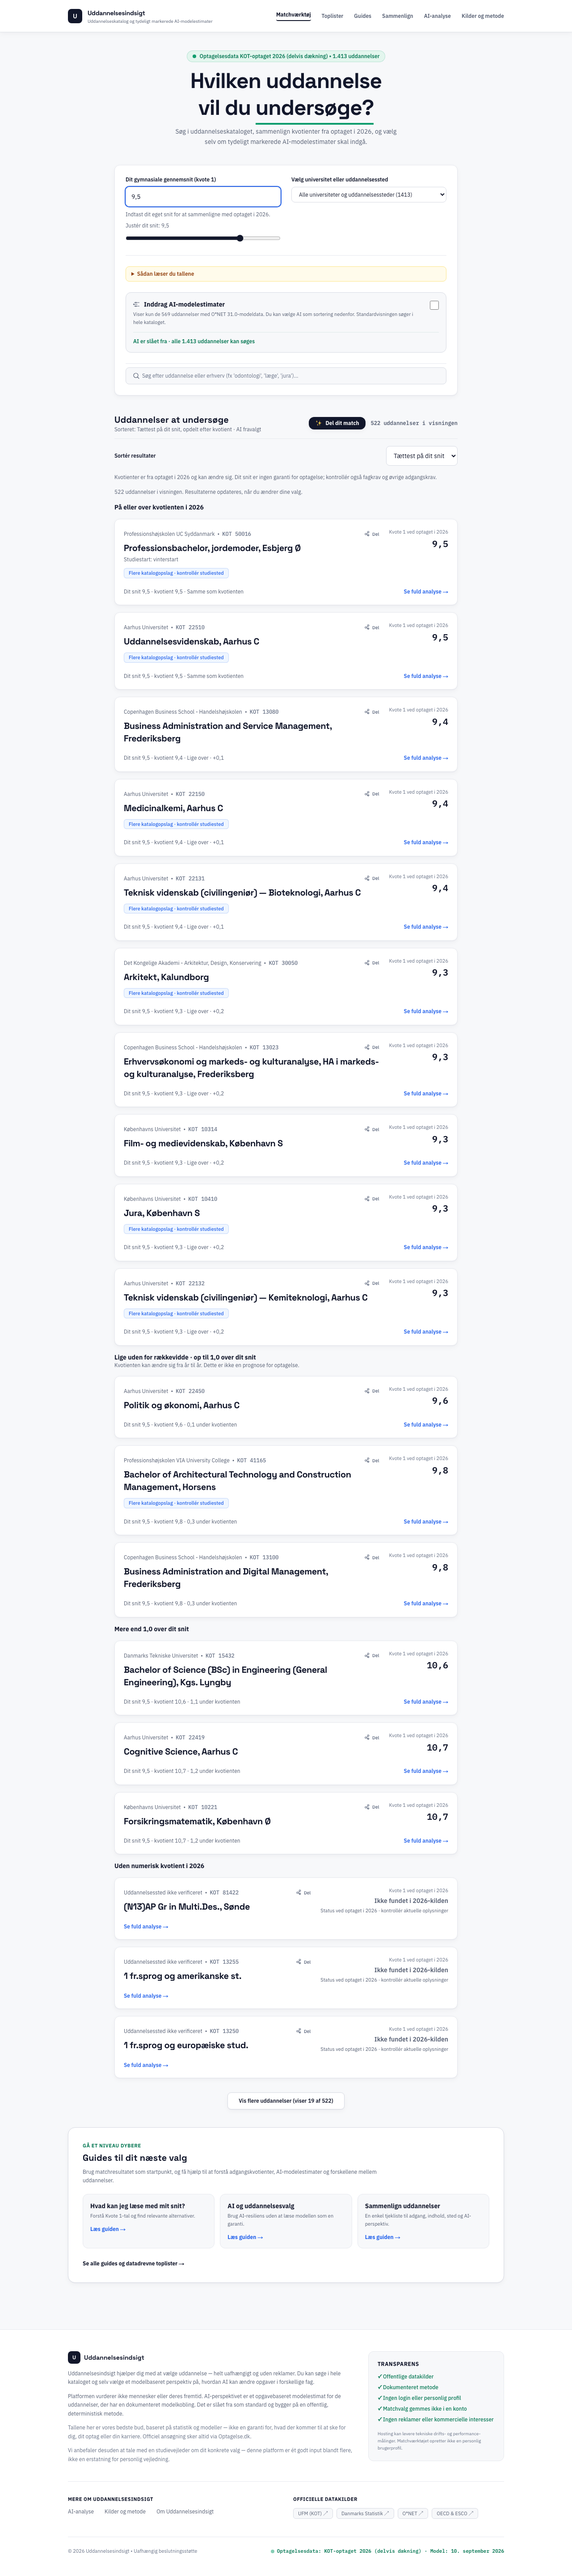
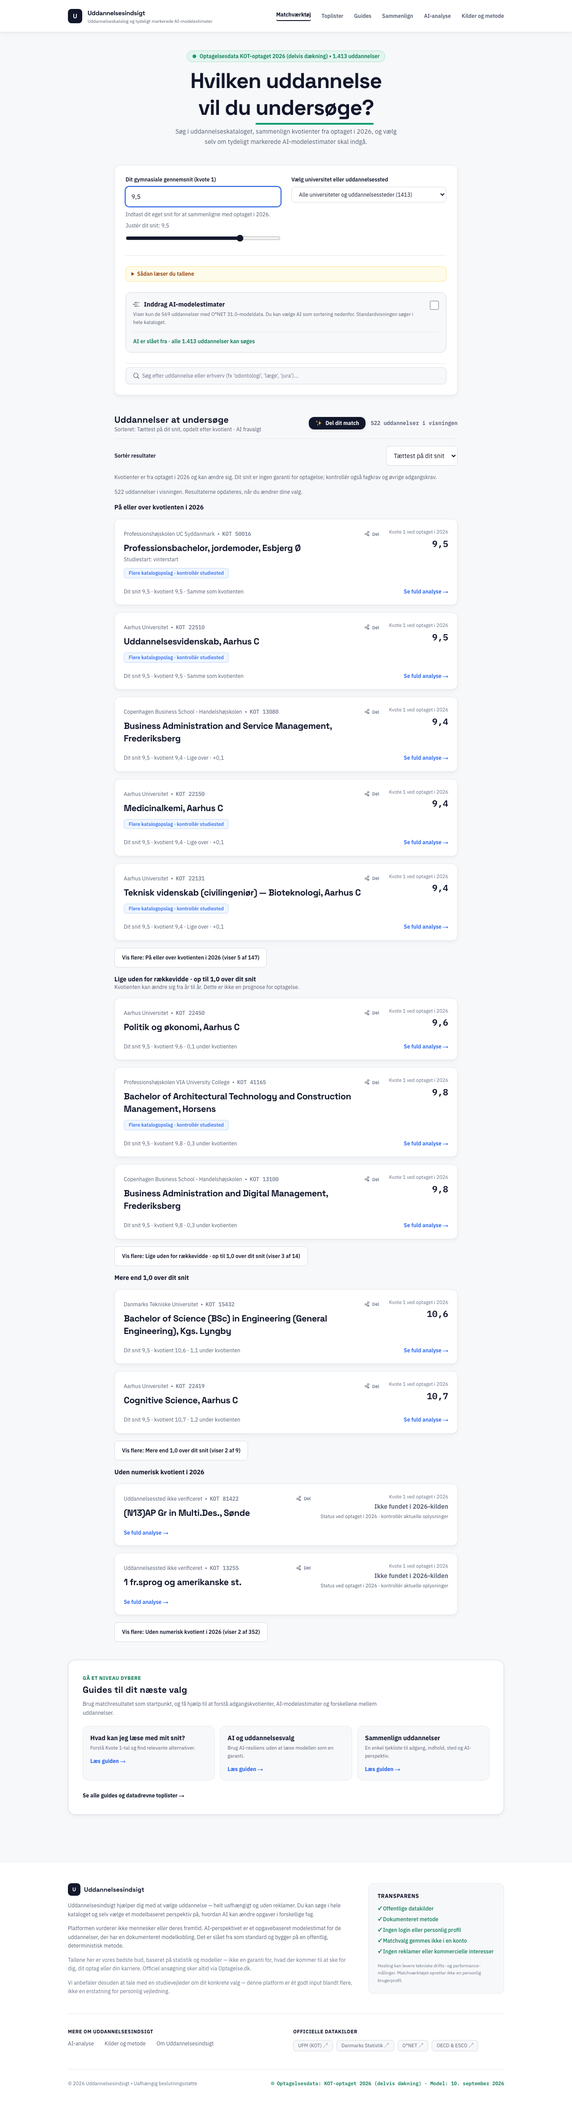
Preserve sorting on share and paginate each group

diff --git a/web/src/app/page.tsx b/web/src/app/page.tsx
@@ -189,9 +189,11 @@ export default function Dashboard() {
   const gpa = parseGpaInput(gpaInput);
   const gpaInvalid = gpaInput.trim() !== "" && gpa === null;
   const [sort, setSort] = useState<ResultSort>("closest");
+  const effectiveSort = sort === "closest" && gpa === null ? "alphabetical" : sort;
   const [includeAiModels, setIncludeAiModels] = useState(false);
   const [expandedProgram, setExpandedProgram] = useState<ProgramItem | null>(null);
   const [visibleCount, setVisibleCount] = useState(10);
+  const [sectionLimits, setSectionLimits] = useState({ at_or_above: 5, near_above: 3, further_above: 2, unknown: 2 });
   const [showShareModal, setShowShareModal] = useState(false);
   const [copiedToast, setCopiedToast] = useState(false);
 
@@ -204,6 +206,7 @@ export default function Dashboard() {
           if (shared.includeAiModels !== undefined) setIncludeAiModels(shared.includeAiModels);
           if (shared.university) setSelectedUniversity(shared.university);
           if (shared.query) setSearchQuery(shared.query);
+          if (shared.sort) setSort(shared.sort);
         });
       }
     }
@@ -345,7 +348,7 @@ export default function Dashboard() {
   const sections = showGroups
     ? (["at_or_above", "near_above", "further_above", "unknown"] as const).map((key) => {
         const items = matchedPrograms.filter((program) => admissionGroup(program.kvNum, gpa) === key);
-        return { key, items, shown: items.slice(0, key === "at_or_above" ? visibleCount : Math.max(3, visibleCount - 7)) };
+        return { key, items, shown: items.slice(0, sectionLimits[key]) };
       }).filter((section) => section.items.length > 0)
     : [{ key: "all" as const, items: matchedPrograms, shown: matchedPrograms.slice(0, visibleCount) }];
   const topMatches = sections.flatMap((section) => section.shown);
@@ -355,6 +358,7 @@ export default function Dashboard() {
     includeAiModels,
     university: selectedUniversity as ShareableUniversity,
     query: searchQuery,
+    sort: effectiveSort,
   })}`;
 
   return (
@@ -443,14 +447,14 @@ export default function Dashboard() {
             </div>
             <div className="flex items-center gap-3">
               <button onClick={() => setShowShareModal(true)} className="inline-flex items-center gap-2 px-3.5 py-1.5 bg-[#12172B] hover:bg-[#1E293B] text-[#FFFFFF] font-bold rounded-xl text-xs transition card-shadow focus:outline-none focus:ring-2 focus:ring-[#2563EB] focus:ring-offset-2"><span>✨</span><span>Del dit match</span></button>
-              <span aria-live="polite" className="text-xs text-[#545D71] font-mono-data font-semibold hidden sm:inline">{loading ? "Henter..." : `${matchedPrograms.length} uddannelser i visningen`}</span>
+              <span className="text-xs text-[#545D71] font-mono-data font-semibold hidden sm:inline">{loading ? "Henter..." : `${matchedPrograms.length} uddannelser i visningen`}</span>
             </div>
           </div>
 
           <div className="flex flex-wrap items-center justify-between gap-3">
             <label htmlFor="result-sort" className="text-xs font-semibold text-[#12172B]">Sortér resultater</label>
-            <select id="result-sort" value={sort} onChange={(event) => { setSort(event.target.value as ResultSort); setVisibleCount(10); }} className="min-h-11 rounded-lg border border-[#D8DBE4] bg-white px-3 text-sm focus:outline-none focus:ring-2 focus:ring-[#2563EB]">
-              <option value="closest">Tættest på dit snit</option>
+            <select id="result-sort" value={effectiveSort} onChange={(event) => { setSort(event.target.value as ResultSort); setVisibleCount(10); }} className="min-h-11 rounded-lg border border-[#D8DBE4] bg-white px-3 text-sm focus:outline-none focus:ring-2 focus:ring-[#2563EB]">
+              <option value="closest" disabled={gpa === null}>Tættest på dit snit</option>
               <option value="highest">Højeste kvotient</option>
               <option value="alphabetical">A–Å</option>
               {includeAiModels && <option value="ai">AI-robusthed</option>}
@@ -515,13 +519,14 @@ export default function Dashboard() {
                   </article>
                 );
               })}
+              {showGroups && section.shown.length < section.items.length && <button type="button" onClick={() => { if (section.key !== "all") setSectionLimits((current) => ({ ...current, [section.key]: current[section.key] + 10 })); }} className="min-h-11 rounded-lg border border-[#D8DBE4] bg-white px-4 text-xs font-semibold focus:outline-none focus:ring-2 focus:ring-[#2563EB]">Vis flere: {groupLabels[section.key]} (viser {section.shown.length} af {section.items.length})</button>}
               </section>)}
             </div>
           ) : (
             <div className="bg-[#FFFFFF] border border-[#E7E9EF] rounded-xl p-8 text-center space-y-3 card-shadow"><h3 className="text-base font-bold text-[#12172B]">Ingen matchende uddannelser fundet</h3><p className="text-xs text-[#545D71]">{includeAiModels ? "Din søgning gav ingen resultater blandt de 569 uddannelser med AI-modeldata. Slå AI fra for at søge i alle 1.413 uddannelser." : "Prøv at vælge et andet uddannelsessted eller ryd dit søgefelt."}</p><button onClick={() => { setSearchQuery(""); setSelectedUniversity("all"); setIncludeAiModels(false); }} className="px-4 py-2 bg-[#12172B] text-[#FFFFFF] rounded-lg text-xs font-semibold hover:bg-[#545D71] transition focus:outline-none focus:ring-2 focus:ring-[#2563EB] focus:ring-offset-2">Nulstil og vis alle uddannelser</button></div>
           )}
 
-          {topMatches.length < matchedPrograms.length && (
+          {!showGroups && topMatches.length < matchedPrograms.length && (
             <div className="text-center pt-4"><button onClick={() => setVisibleCount((prev) => prev + 10)} className="px-6 py-2.5 bg-[#FFFFFF] border border-[#D8DBE4] hover:border-[#12172B] text-[#12172B] font-semibold rounded-lg text-xs transition card-shadow focus:outline-none focus:ring-2 focus:ring-[#2563EB] focus:ring-offset-2">Vis flere uddannelser (viser {topMatches.length} af {matchedPrograms.length})</button></div>
           )}
         </div>

diff --git a/web/e2e/dashboard.spec.ts b/web/e2e/dashboard.spec.ts
@@ -31,10 +31,16 @@ test.describe('AI-Studievalgsplatform Dashboard E2E Tests', () => {
   test('snit kan indtastes med komma, sorteres og viser særskilte grupper', async ({ page }) => {
     const gpa = page.getByLabel('Dit gymnasiale gennemsnit (kvote 1)');
     await expect(gpa).toHaveValue('');
+    await expect(page.getByLabel('Sortér resultater')).toHaveValue('alphabetical');
     await expect(page.getByText(/Indtast dit snit for at sammenligne kvotienter/)).toBeVisible();
     await gpa.fill('9,5');
+    await expect(page.getByLabel('Sortér resultater')).toHaveValue('closest');
     await expect(page.getByRole('heading', { name: /Lige uden for rækkevidde/ })).toBeVisible();
     await expect(page.getByRole('heading', { name: /Uden numerisk kvotient/ })).toBeVisible();
+    const nearSection = page.getByRole('region', { name: /Lige uden for rækkevidde/ });
+    await expect(nearSection.getByTestId('program-card')).toHaveCount(3);
+    await nearSection.getByRole('button', { name: /Vis flere/ }).click();
+    await expect(nearSection.getByTestId('program-card')).toHaveCount(13);
     await expect(page.getByText(/Dit snit 9,5 · kvotient/).first()).toBeVisible();
     await page.getByLabel('Sortér resultater').selectOption('highest');
     await expect(page.getByText(/Højeste kvotient først/)).toBeVisible();
@@ -42,8 +48,10 @@ test.describe('AI-Studievalgsplatform Dashboard E2E Tests', () => {
     const numericValues = values.map((value) => Number(value?.replace(',', '.')));
     expect(numericValues.every((value) => Number.isFinite(value))).toBe(true);
     expect(numericValues).toEqual([...numericValues].sort((a, b) => b - a));
+    await page.getByLabel('Sortér resultater').selectOption('closest');
     await gpa.fill('13');
     await expect(page.getByText(/Skriv et snit mellem 2,0 og 12,0/)).toBeVisible();
+    await expect(page.getByLabel('Sortér resultater')).toHaveValue('alphabetical');
   });
 
   test('E2E-03: AI er fravalgt som standard og kan tilvælges eksplicit', async ({ page }) => {
@@ -97,12 +105,13 @@ test.describe('AI-Studievalgsplatform Dashboard E2E Tests', () => {
   });
 
   test('E2E-07: Et delt link gendanner snit, AI-tilvalg, uddannelsessted og søgning', async ({ page }) => {
-    await page.goto('/?gpa=8.2&ai=1&u=au&q=medicin');
+    await page.goto('/?gpa=8.2&ai=1&u=au&q=medicin&sort=ai');
 
     await expect(page.locator('#gpa-slider')).toHaveValue('8.2');
     await expect(page.getByTestId('include-ai-models')).toBeChecked();
     await expect(page.locator('#university-select')).toHaveValue('au');
     await expect(page.getByRole('textbox', { name: 'Søg efter uddannelse eller erhverv' })).toHaveValue('medicin');
+    await expect(page.getByLabel('Sortér resultater')).toHaveValue('ai');
   });
 
   test('E2E-08: Guidehub og beslutningsguide kan åbnes fra hovednavigationen', async ({ page }) => {

diff --git a/web/src/lib/shareMatch.ts b/web/src/lib/shareMatch.ts
@@ -1,3 +1,5 @@
+import type { ResultSort } from "./resultSorting";
+
 export const SHAREABLE_UNIVERSITIES = [
   "all",
   "ku",
@@ -18,6 +20,7 @@ export interface MatchShareState {
   includeAiModels: boolean;
   university: ShareableUniversity;
   query: string;
+  sort?: ResultSort;
 }
 
 export type ParsedMatchShareState = Partial<MatchShareState>;
@@ -38,6 +41,7 @@ export function parseMatchShareParams(search: string): ParsedMatchShareState {
   const includeAi = params.get("ai");
   const university = params.get("u");
   const query = params.get("q");
+  const sort = params.get("sort");
 
   if (gpa !== undefined) parsed.gpa = gpa;
   if (includeAi === "1" || includeAi === "true") parsed.includeAiModels = true;
@@ -48,6 +52,8 @@ export function parseMatchShareParams(search: string): ParsedMatchShareState {
     parsed.university = university as ShareableUniversity;
   }
   if (query) parsed.query = query.trim().slice(0, 120);
+  if (sort && ["closest", "highest", "alphabetical"].includes(sort)) parsed.sort = sort as ResultSort;
+  if (sort === "ai" && parsed.includeAiModels === true) parsed.sort = "ai";
 
   return parsed;
 }
@@ -58,6 +64,7 @@ export function buildMatchSharePath(state: MatchShareState): string {
 
   if (state.university !== "all") params.set("u", state.university);
   if (state.query.trim()) params.set("q", state.query.trim().slice(0, 120));
+  if (state.sort && (state.sort !== "ai" || state.includeAiModels)) params.set("sort", state.sort);
 
   return `/?${params.toString()}`;
 }

diff --git a/web/src/__tests__/resultSorting.test.ts b/web/src/__tests__/resultSorting.test.ts
@@ -1,5 +1,6 @@
 import assert from "node:assert/strict";
 import { admissionGroup, compareResults, formatDanishNumber, marginLabel, parseGpaInput, type SortableResult } from "../lib/resultSorting";
+import { buildMatchSharePath, parseMatchShareParams } from "../lib/shareMatch";
 
 assert.equal(parseGpaInput("9,5"), 9.5);
 assert.equal(parseGpaInput("9.55"), 9.55);
@@ -16,4 +17,10 @@ const results = [row("Ukendt", null), row("Langt under", 3), row("Udenfor", 10.5
 assert.deepEqual(results.toSorted((a, b) => compareResults(a, b, "closest", 9.5, false)).map((r) => r.udbud_titel), ["Nær", "Langt under", "Udenfor", "Langt over", "Ukendt"]);
 assert.deepEqual(results.toSorted((a, b) => compareResults(a, b, "highest", 9.5, false)).map((r) => r.udbud_titel), ["Langt over", "Udenfor", "Nær", "Langt under", "Ukendt"]);
 assert.equal(compareResults(row("Medicin", 10.5, 1100), row("Biomedicin", 8, 300), "closest", 9.5, true) < 0, true);
+for (const sort of ["closest", "highest", "alphabetical", "ai"] as const) {
+  const url = buildMatchSharePath({ gpa: 9.5, includeAiModels: sort === "ai", university: "all", query: "", sort });
+  assert.equal(parseMatchShareParams(url.slice(1)).sort, sort);
+}
+assert.equal(parseMatchShareParams("?ai=0&sort=ai").sort, undefined);
+assert.equal(parseMatchShareParams("?sort=invalid").sort, undefined);
 console.log("Result sorting: validated input, historical-margin groups and ordering");
